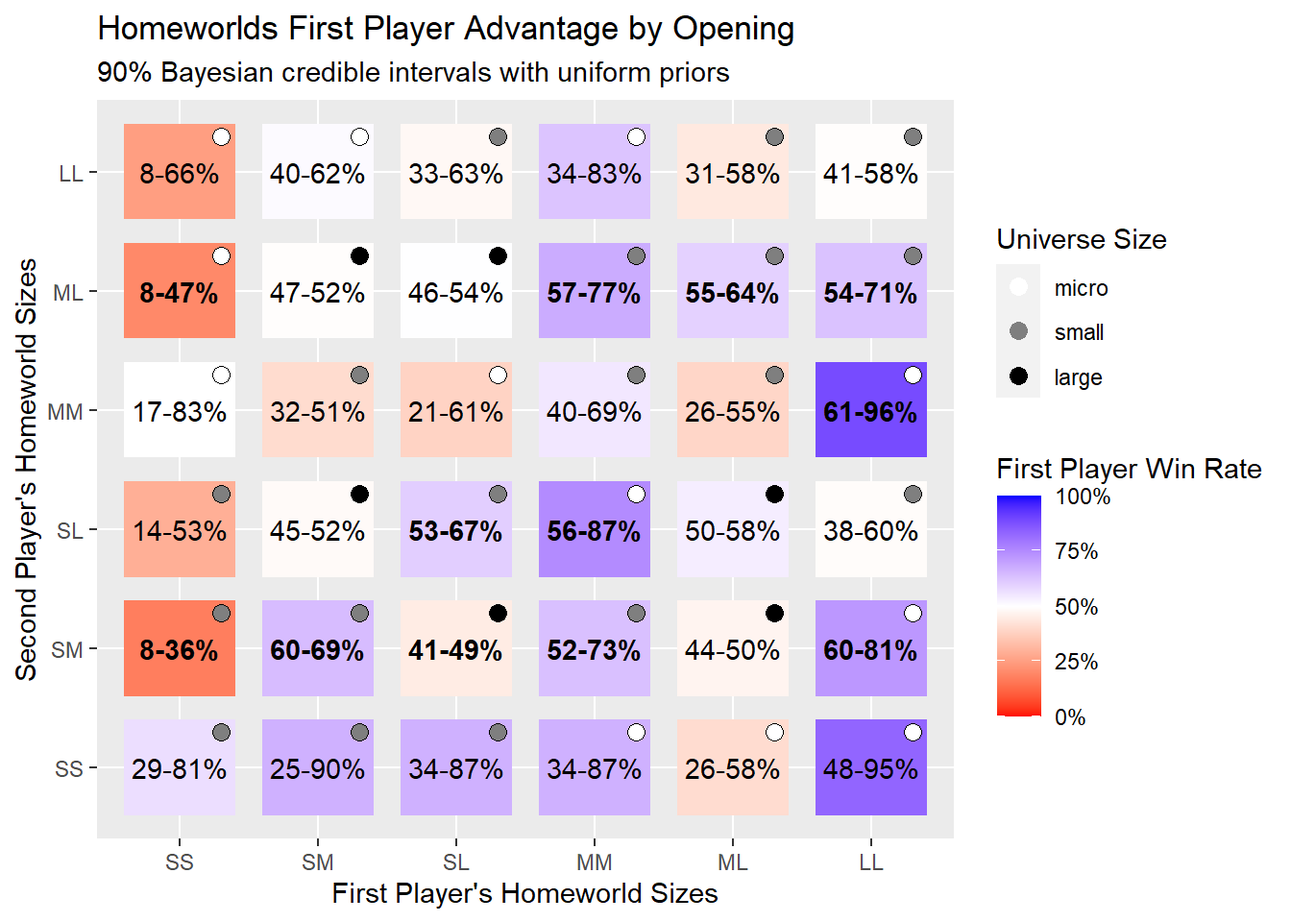
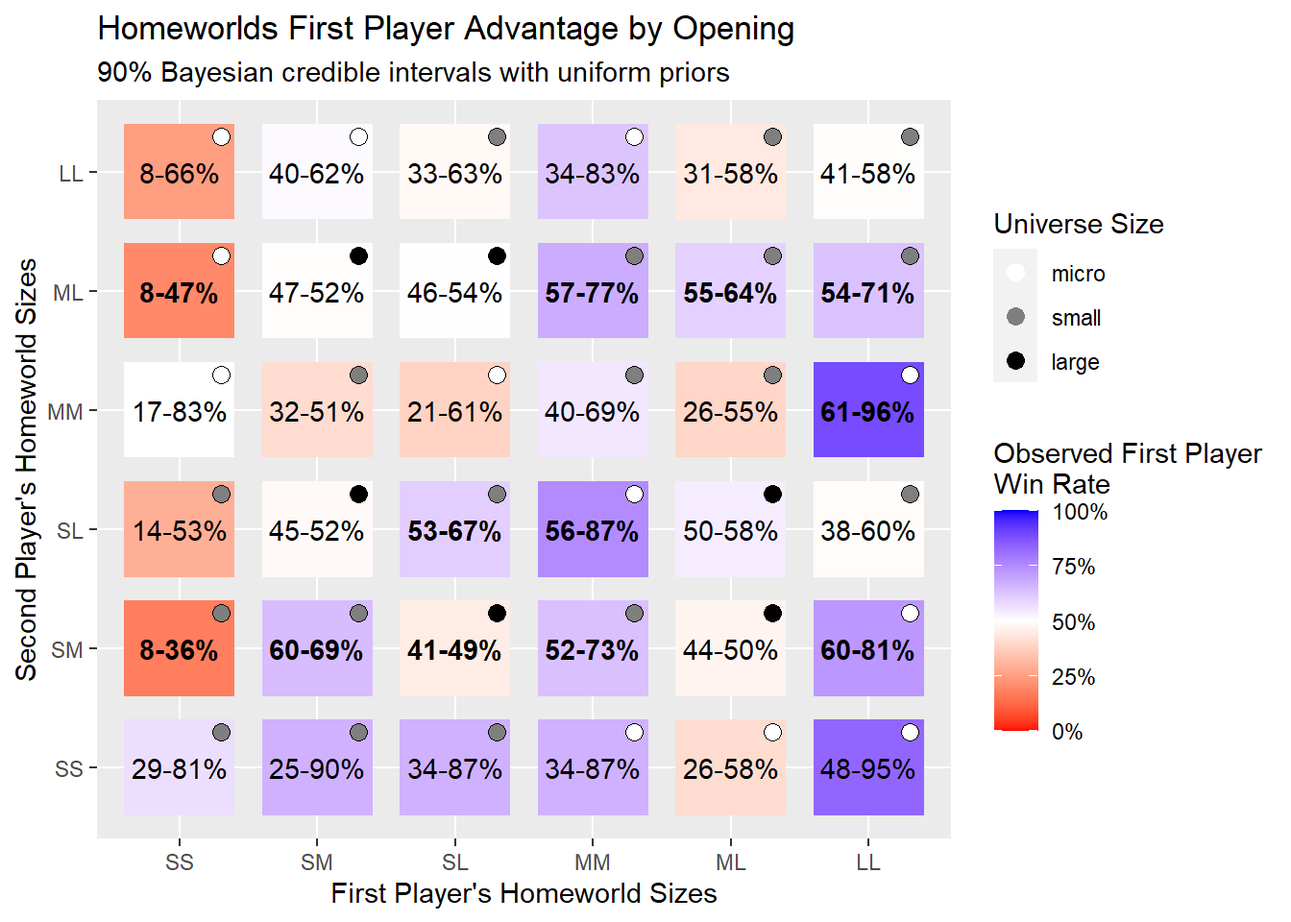
add second graphic to homeworlds openings, adjust prose slightly

diff --git a/posts/homeworlds_openings/homeworlds_openings.html b/posts/homeworlds_openings/homeworlds_openings.html
@@ -206,14 +206,14 @@ code span.wa { color: #60a0b0; font-weight: bold; font-style: italic; } /* Warni
 <p>At the beginning of the game, each player chooses two stars to be their homeworld. Star systems are connected if they have no sizes in common.</p>
 <div class="quarto-figure quarto-figure-center">
 <figure class="figure">
-<p><a href="home5.jpg" class="lightbox" title="Homeworlds star connection rule (from Looney Labs)" data-gallery="quarto-lightbox-gallery-1"><img src="home5.jpg" class="img-fluid figure-img"></a></p>
+<p><a href="home5.jpg" class="lightbox" data-gallery="quarto-lightbox-gallery-1" title="Homeworlds star connection rule (from Looney Labs)"><img src="home5.jpg" class="img-fluid figure-img"></a></p>
 <p></p><figcaption class="figure-caption">Homeworlds star connection rule (from Looney Labs)</figcaption><p></p>
 </figure>
 </div>
 <p>Expert players actively debate Homeworlds’ opening theory. One question is which combination of star sizes should be selected by the first player, and how the second player should respond.</p>
 <div class="quarto-figure quarto-figure-center">
 <figure class="figure">
-<p><a href="home6.jpg" class="lightbox" title="Some homeworld options (from Looney Labs)" data-gallery="quarto-lightbox-gallery-2"><img src="home6.jpg" class="img-fluid figure-img"></a></p>
+<p><a href="home6.jpg" class="lightbox" data-gallery="quarto-lightbox-gallery-2" title="Some homeworld options (from Looney Labs)"><img src="home6.jpg" class="img-fluid figure-img"></a></p>
 <p></p><figcaption class="figure-caption">Some homeworld options (from Looney Labs)</figcaption><p></p>
 </figure>
 </div>
@@ -265,8 +265,10 @@ code span.wa { color: #60a0b0; font-weight: bold; font-style: italic; } /* Warni
 </section>
 <section id="modelling-first-player-advantage" class="level2">
 <h2 class="anchored" data-anchor-id="modelling-first-player-advantage">Modelling First Player Advantage</h2>
-<p>We can model first player advantage by associating a parameter ranging from zero to one with each combination of homeworld sizes representing the proportion of games we should expect the first player to win.<a href="#fn1" class="footnote-ref" id="fnref1" role="doc-noteref"><sup>1</sup></a> If this parameter is distributed according to a beta distribution <em>Beta(a, b)</em>, then its posterior distribution accounting for observing <em>n</em> wins and <em>m</em> losses for the first player is <em>Beta(a + n, b + m)</em>.<a href="#fn2" class="footnote-ref" id="fnref2" role="doc-noteref"><sup>2</sup></a> All that is left is to decide on a prior distribution representing our beliefs before observing any data. This is an interesting subtlety<a href="#fn3" class="footnote-ref" id="fnref3" role="doc-noteref"><sup>3</sup></a>, but it seems reasonable to choose a uniform prior, <em>Beta(1, 1)</em>, under which all possibilities are equally credible.</p>
+<p>We can model first player advantage by imagining that a game of Homeworlds is like a biased coin flip, where each opening is associated with an independent bias. For example, if the bias parameter for some opening is 0.6, then we expect the first player to win 60% of the time that opening is played.<a href="#fn1" class="footnote-ref" id="fnref1" role="doc-noteref"><sup>1</sup></a></p>
+<p>If this parameter is distributed according to a beta distribution <em>Beta(a, b)</em>, then its posterior distribution accounting for observing <em>n</em> wins and <em>m</em> losses for the first player is <em>Beta(a + n, b + m)</em>.<a href="#fn2" class="footnote-ref" id="fnref2" role="doc-noteref"><sup>2</sup></a> All that is left is to decide on a prior distribution representing our beliefs before observing any data. This is an interesting subtlety<a href="#fn3" class="footnote-ref" id="fnref3" role="doc-noteref"><sup>3</sup></a>, but it seems reasonable to choose a uniform prior, <em>Beta(1, 1)</em>, under which all possibilities are equally credible.</p>
 <p>From the posterior distribution, we can construct a 90% <a href="https://en.wikipedia.org/wiki/Credible_interval">credible interval</a> using <code>qbeta</code>. Unlike the confidence intervals used in frequentist statistical inference, which are the source of much confusion, Bayesian credible intervals have a straightforward interpretation: we’re 90% sure the true value of the parameter is contained in a 90% credible interval.<a href="#fn4" class="footnote-ref" id="fnref4" role="doc-noteref"><sup>4</sup></a></p>
+<p>We can also calculate the probability that the first player is favoured (i.e.&nbsp;is expected to win at least half the time) in each opening using <code>pbeta</code>. In this case we don’t consider the extent of the advantage, just whether there is one.</p>
 <div class="cell">
 <details>
 <summary>Code</summary>
@@ -288,13 +290,19 @@ code span.wa { color: #60a0b0; font-weight: bold; font-style: italic; } /* Warni
 <span id="cb4-16"><a href="#cb4-16" aria-hidden="true" tabindex="-1"></a>         <span class="at">ci_fontface =</span> <span class="fu">case_when</span>(<span class="sc">!</span><span class="fu">between</span>(<span class="fl">0.5</span>, ci_lower, ci_upper) <span class="sc">~</span> <span class="st">"bold"</span>,</span>
 <span id="cb4-17"><a href="#cb4-17" aria-hidden="true" tabindex="-1"></a>                                 T <span class="sc">~</span> <span class="st">"plain"</span>),</span>
 <span id="cb4-18"><a href="#cb4-18" aria-hidden="true" tabindex="-1"></a>         <span class="at">universe_size =</span> <span class="fu">universe_size</span>(p1_hw, p2_hw),</span>
-<span id="cb4-19"><a href="#cb4-19" aria-hidden="true" tabindex="-1"></a>         <span class="at">universe_size =</span> <span class="fu">factor</span>(universe_size, <span class="at">ordered =</span> T, <span class="at">levels =</span> universe_sizes)) <span class="ot">-&gt;</span></span>
-<span id="cb4-20"><a href="#cb4-20" aria-hidden="true" tabindex="-1"></a>  homeworlds_openings</span>
-<span id="cb4-21"><a href="#cb4-21" aria-hidden="true" tabindex="-1"></a></span>
-<span id="cb4-22"><a href="#cb4-22" aria-hidden="true" tabindex="-1"></a>homeworlds_openings</span></code><button title="Copy to Clipboard" class="code-copy-button"><i class="bi"></i></button></pre></div>
+<span id="cb4-19"><a href="#cb4-19" aria-hidden="true" tabindex="-1"></a>         <span class="at">universe_size =</span> <span class="fu">factor</span>(universe_size, <span class="at">ordered =</span> T, <span class="at">levels =</span> universe_sizes),</span>
+<span id="cb4-20"><a href="#cb4-20" aria-hidden="true" tabindex="-1"></a>         <span class="at">prob_fav =</span> <span class="dv">1</span> <span class="sc">-</span> <span class="fu">pbeta</span>(<span class="fl">0.5</span>, <span class="dv">1</span> <span class="sc">+</span> p1_wins, <span class="dv">1</span> <span class="sc">+</span> p2_wins),</span>
+<span id="cb4-21"><a href="#cb4-21" aria-hidden="true" tabindex="-1"></a>         <span class="at">formatted_prob_fav =</span> <span class="fu">case_when</span>(</span>
+<span id="cb4-22"><a href="#cb4-22" aria-hidden="true" tabindex="-1"></a>           prob_fav <span class="sc">&lt;</span> <span class="fl">0.005</span> <span class="sc">~</span> <span class="st">"&lt;1%"</span>,</span>
+<span id="cb4-23"><a href="#cb4-23" aria-hidden="true" tabindex="-1"></a>           prob_fav <span class="sc">&lt;</span> <span class="fl">0.995</span> <span class="sc">~</span> <span class="fu">paste0</span>(<span class="fu">round</span>(<span class="dv">100</span> <span class="sc">*</span> prob_fav), <span class="st">"%"</span>),</span>
+<span id="cb4-24"><a href="#cb4-24" aria-hidden="true" tabindex="-1"></a>           T <span class="sc">~</span> <span class="st">"&gt;99%"</span>),</span>
+<span id="cb4-25"><a href="#cb4-25" aria-hidden="true" tabindex="-1"></a>         <span class="at">prob_fav_fontface =</span> <span class="fu">case_when</span>(<span class="fu">abs</span>(prob_fav <span class="sc">-</span> <span class="fl">0.5</span>) <span class="sc">&gt;</span> <span class="fl">0.45</span> <span class="sc">~</span> <span class="st">"bold"</span>, T <span class="sc">~</span> <span class="st">"plain"</span>)) <span class="ot">-&gt;</span></span>
+<span id="cb4-26"><a href="#cb4-26" aria-hidden="true" tabindex="-1"></a>  homeworlds_openings</span>
+<span id="cb4-27"><a href="#cb4-27" aria-hidden="true" tabindex="-1"></a></span>
+<span id="cb4-28"><a href="#cb4-28" aria-hidden="true" tabindex="-1"></a>homeworlds_openings</span></code><button title="Copy to Clipboard" class="code-copy-button"><i class="bi"></i></button></pre></div>
 </details>
 <div class="cell-output cell-output-stdout">
-<pre><code># A tibble: 36 × 11
+<pre><code># A tibble: 36 × 14
 # Rowwise: 
    p1_wr     n p1_hw p2_hw p1_wins p2_wins ci_lower ci_upper formatted_ci
    &lt;dbl&gt; &lt;dbl&gt; &lt;ord&gt; &lt;ord&gt;   &lt;dbl&gt;   &lt;dbl&gt;    &lt;dbl&gt;    &lt;dbl&gt; &lt;chr&gt;       
@@ -309,12 +317,17 @@ code span.wa { color: #60a0b0; font-weight: bold; font-style: italic; } /* Warni
  9 0.441    34 ML    LL      15.0    19.0    0.311     0.581 31-58%      
 10 0.449   476 SL    SM     214.    262.     0.412     0.487 41-49%      
 # ℹ 26 more rows
-# ℹ 2 more variables: ci_fontface &lt;chr&gt;, universe_size &lt;ord&gt;</code></pre>
+# ℹ 5 more variables: ci_fontface &lt;chr&gt;, universe_size &lt;ord&gt;, prob_fav &lt;dbl&gt;,
+#   formatted_prob_fav &lt;chr&gt;, prob_fav_fontface &lt;chr&gt;</code></pre>
 </div>
 </div>
 </section>
 <section id="visualizing-first-player-advantage" class="level2">
 <h2 class="anchored" data-anchor-id="visualizing-first-player-advantage">Visualizing First Player Advantage</h2>
+<div class="panel-tabset">
+<ul class="nav nav-tabs" role="tablist"><li class="nav-item" role="presentation"><a class="nav-link active" id="tabset-1-1-tab" data-bs-toggle="tab" data-bs-target="#tabset-1-1" role="tab" aria-controls="tabset-1-1" aria-selected="true">Credible Intervals</a></li><li class="nav-item" role="presentation"><a class="nav-link" id="tabset-1-2-tab" data-bs-toggle="tab" data-bs-target="#tabset-1-2" role="tab" aria-controls="tabset-1-2" aria-selected="false">Posterior Probability of First Player Advantage</a></li></ul>
+<div class="tab-content">
+<div id="tabset-1-1" class="tab-pane active" role="tabpanel" aria-labelledby="tabset-1-1-tab">
 <div class="cell">
 <details>
 <summary>Code</summary>
@@ -322,44 +335,70 @@ code span.wa { color: #60a0b0; font-weight: bold; font-style: italic; } /* Warni
 <span id="cb6-2"><a href="#cb6-2" aria-hidden="true" tabindex="-1"></a>  <span class="fu">ggplot</span>(<span class="fu">aes</span>(<span class="at">x =</span> p1_hw, <span class="at">y =</span> p2_hw, <span class="at">fill =</span> p1_wr)) <span class="sc">+</span></span>
 <span id="cb6-3"><a href="#cb6-3" aria-hidden="true" tabindex="-1"></a>  <span class="co"># add tiles coloured to indicate the observed first player win rate</span></span>
 <span id="cb6-4"><a href="#cb6-4" aria-hidden="true" tabindex="-1"></a>  <span class="fu">geom_tile</span>(<span class="at">width =</span> <span class="fl">0.8</span>, <span class="at">height =</span> <span class="fl">0.8</span>) <span class="sc">+</span></span>
-<span id="cb6-5"><a href="#cb6-5" aria-hidden="true" tabindex="-1"></a>  <span class="co"># add 90% credible intervals as text</span></span>
-<span id="cb6-6"><a href="#cb6-6" aria-hidden="true" tabindex="-1"></a>  <span class="fu">geom_text</span>(<span class="fu">aes</span>(<span class="at">label =</span> formatted_ci, <span class="at">fontface =</span> ci_fontface)) <span class="sc">+</span></span>
-<span id="cb6-7"><a href="#cb6-7" aria-hidden="true" tabindex="-1"></a>  <span class="co"># add dots to indicate universe size</span></span>
-<span id="cb6-8"><a href="#cb6-8" aria-hidden="true" tabindex="-1"></a>  <span class="fu">geom_point</span>(<span class="fu">aes</span>(<span class="at">colour =</span> universe_size), </span>
-<span id="cb6-9"><a href="#cb6-9" aria-hidden="true" tabindex="-1"></a>             <span class="at">position =</span> <span class="fu">position_nudge</span>(<span class="at">x =</span> <span class="fl">0.3</span>, <span class="at">y =</span> <span class="fl">0.3</span>), </span>
-<span id="cb6-10"><a href="#cb6-10" aria-hidden="true" tabindex="-1"></a>             <span class="at">size =</span> <span class="dv">3</span>) <span class="sc">+</span></span>
-<span id="cb6-11"><a href="#cb6-11" aria-hidden="true" tabindex="-1"></a>  <span class="co"># trick to circle the universe size dots without a fill scale collision</span></span>
-<span id="cb6-12"><a href="#cb6-12" aria-hidden="true" tabindex="-1"></a>  <span class="fu">geom_point</span>(<span class="at">size =</span> <span class="dv">3</span>, </span>
-<span id="cb6-13"><a href="#cb6-13" aria-hidden="true" tabindex="-1"></a>             <span class="at">shape =</span> <span class="dv">21</span>, </span>
-<span id="cb6-14"><a href="#cb6-14" aria-hidden="true" tabindex="-1"></a>             <span class="at">fill =</span> <span class="cn">NA</span>, </span>
-<span id="cb6-15"><a href="#cb6-15" aria-hidden="true" tabindex="-1"></a>             <span class="at">colour =</span> <span class="st">"black"</span>, </span>
-<span id="cb6-16"><a href="#cb6-16" aria-hidden="true" tabindex="-1"></a>             <span class="at">position =</span> <span class="fu">position_nudge</span>(<span class="at">x =</span> <span class="fl">0.3</span>, <span class="at">y =</span> <span class="fl">0.3</span>)) <span class="sc">+</span></span>
-<span id="cb6-17"><a href="#cb6-17" aria-hidden="true" tabindex="-1"></a>  <span class="co"># add labels</span></span>
-<span id="cb6-18"><a href="#cb6-18" aria-hidden="true" tabindex="-1"></a>  <span class="fu">labs</span>(<span class="at">title =</span> <span class="st">"Homeworlds First Player Advantage by Opening"</span>,</span>
-<span id="cb6-19"><a href="#cb6-19" aria-hidden="true" tabindex="-1"></a>       <span class="at">subtitle =</span> <span class="st">"90% Bayesian credible intervals with uniform priors"</span>,</span>
-<span id="cb6-20"><a href="#cb6-20" aria-hidden="true" tabindex="-1"></a>       <span class="at">x =</span> <span class="st">"First Player's Homeworld Sizes"</span>,</span>
-<span id="cb6-21"><a href="#cb6-21" aria-hidden="true" tabindex="-1"></a>       <span class="at">y =</span> <span class="st">"Second Player's Homeworld Sizes"</span>,</span>
-<span id="cb6-22"><a href="#cb6-22" aria-hidden="true" tabindex="-1"></a>       <span class="at">fill =</span> <span class="st">"First Player Win Rate"</span>,</span>
-<span id="cb6-23"><a href="#cb6-23" aria-hidden="true" tabindex="-1"></a>       <span class="at">colour =</span> <span class="st">"Universe Size"</span>) <span class="sc">+</span></span>
-<span id="cb6-24"><a href="#cb6-24" aria-hidden="true" tabindex="-1"></a>  <span class="co"># gradient scale for the tiles</span></span>
-<span id="cb6-25"><a href="#cb6-25" aria-hidden="true" tabindex="-1"></a>  <span class="fu">scale_fill_gradient2</span>(<span class="at">low =</span> <span class="st">"red"</span>, </span>
-<span id="cb6-26"><a href="#cb6-26" aria-hidden="true" tabindex="-1"></a>                       <span class="at">mid =</span> <span class="st">"white"</span>, </span>
-<span id="cb6-27"><a href="#cb6-27" aria-hidden="true" tabindex="-1"></a>                       <span class="at">high =</span> <span class="st">"blue"</span>, </span>
-<span id="cb6-28"><a href="#cb6-28" aria-hidden="true" tabindex="-1"></a>                       <span class="at">midpoint =</span> <span class="fl">0.5</span>,</span>
-<span id="cb6-29"><a href="#cb6-29" aria-hidden="true" tabindex="-1"></a>                       <span class="at">labels =</span> scales<span class="sc">::</span>percent,</span>
-<span id="cb6-30"><a href="#cb6-30" aria-hidden="true" tabindex="-1"></a>                       <span class="at">limits =</span> <span class="fu">c</span>(<span class="dv">0</span>, <span class="dv">1</span>)) <span class="sc">+</span></span>
-<span id="cb6-31"><a href="#cb6-31" aria-hidden="true" tabindex="-1"></a>  <span class="co"># discrete scale for the universe size dots</span></span>
-<span id="cb6-32"><a href="#cb6-32" aria-hidden="true" tabindex="-1"></a>  <span class="fu">scale_colour_manual</span>(<span class="at">values =</span> <span class="fu">c</span>(<span class="at">micro =</span> <span class="st">"white"</span>, </span>
-<span id="cb6-33"><a href="#cb6-33" aria-hidden="true" tabindex="-1"></a>                                 <span class="at">small =</span> <span class="st">"grey50"</span>, </span>
-<span id="cb6-34"><a href="#cb6-34" aria-hidden="true" tabindex="-1"></a>                                 <span class="at">large =</span> <span class="st">"black"</span>)) <span class="sc">+</span> </span>
-<span id="cb6-35"><a href="#cb6-35" aria-hidden="true" tabindex="-1"></a>  <span class="co"># put the win rate legend under the universe size legend</span></span>
-<span id="cb6-36"><a href="#cb6-36" aria-hidden="true" tabindex="-1"></a>  <span class="fu">guides</span>(<span class="at">colour =</span> <span class="fu">guide_legend</span>(<span class="at">order =</span> <span class="dv">1</span>))</span></code><button title="Copy to Clipboard" class="code-copy-button"><i class="bi"></i></button></pre></div>
+<span id="cb6-5"><a href="#cb6-5" aria-hidden="true" tabindex="-1"></a>  <span class="co"># add dots to indicate universe size</span></span>
+<span id="cb6-6"><a href="#cb6-6" aria-hidden="true" tabindex="-1"></a>  <span class="fu">geom_point</span>(<span class="fu">aes</span>(<span class="at">colour =</span> universe_size), </span>
+<span id="cb6-7"><a href="#cb6-7" aria-hidden="true" tabindex="-1"></a>             <span class="at">position =</span> <span class="fu">position_nudge</span>(<span class="at">x =</span> <span class="fl">0.3</span>, <span class="at">y =</span> <span class="fl">0.3</span>), </span>
+<span id="cb6-8"><a href="#cb6-8" aria-hidden="true" tabindex="-1"></a>             <span class="at">size =</span> <span class="dv">3</span>) <span class="sc">+</span></span>
+<span id="cb6-9"><a href="#cb6-9" aria-hidden="true" tabindex="-1"></a>  <span class="co"># trick to circle the universe size dots without a fill scale collision</span></span>
+<span id="cb6-10"><a href="#cb6-10" aria-hidden="true" tabindex="-1"></a>  <span class="fu">geom_point</span>(<span class="at">size =</span> <span class="dv">3</span>, </span>
+<span id="cb6-11"><a href="#cb6-11" aria-hidden="true" tabindex="-1"></a>             <span class="at">shape =</span> <span class="dv">21</span>, </span>
+<span id="cb6-12"><a href="#cb6-12" aria-hidden="true" tabindex="-1"></a>             <span class="at">fill =</span> <span class="cn">NA</span>, </span>
+<span id="cb6-13"><a href="#cb6-13" aria-hidden="true" tabindex="-1"></a>             <span class="at">colour =</span> <span class="st">"black"</span>, </span>
+<span id="cb6-14"><a href="#cb6-14" aria-hidden="true" tabindex="-1"></a>             <span class="at">position =</span> <span class="fu">position_nudge</span>(<span class="at">x =</span> <span class="fl">0.3</span>, <span class="at">y =</span> <span class="fl">0.3</span>)) <span class="sc">+</span></span>
+<span id="cb6-15"><a href="#cb6-15" aria-hidden="true" tabindex="-1"></a>  <span class="co"># add labels</span></span>
+<span id="cb6-16"><a href="#cb6-16" aria-hidden="true" tabindex="-1"></a>  <span class="fu">labs</span>(<span class="at">title =</span> <span class="st">"Homeworlds First Player Advantage by Opening"</span>,</span>
+<span id="cb6-17"><a href="#cb6-17" aria-hidden="true" tabindex="-1"></a>       <span class="at">x =</span> <span class="st">"First Player's Homeworld Sizes"</span>,</span>
+<span id="cb6-18"><a href="#cb6-18" aria-hidden="true" tabindex="-1"></a>       <span class="at">y =</span> <span class="st">"Second Player's Homeworld Sizes"</span>,</span>
+<span id="cb6-19"><a href="#cb6-19" aria-hidden="true" tabindex="-1"></a>       <span class="at">fill =</span> <span class="st">"Observed First Player</span><span class="sc">\n</span><span class="st">Win Rate"</span>,</span>
+<span id="cb6-20"><a href="#cb6-20" aria-hidden="true" tabindex="-1"></a>       <span class="at">colour =</span> <span class="st">"Universe Size"</span>) <span class="sc">+</span></span>
+<span id="cb6-21"><a href="#cb6-21" aria-hidden="true" tabindex="-1"></a>  <span class="co"># gradient scale for the tiles</span></span>
+<span id="cb6-22"><a href="#cb6-22" aria-hidden="true" tabindex="-1"></a>  <span class="fu">scale_fill_gradient2</span>(<span class="at">low =</span> <span class="st">"red"</span>, </span>
+<span id="cb6-23"><a href="#cb6-23" aria-hidden="true" tabindex="-1"></a>                       <span class="at">mid =</span> <span class="st">"white"</span>, </span>
+<span id="cb6-24"><a href="#cb6-24" aria-hidden="true" tabindex="-1"></a>                       <span class="at">high =</span> <span class="st">"blue"</span>, </span>
+<span id="cb6-25"><a href="#cb6-25" aria-hidden="true" tabindex="-1"></a>                       <span class="at">midpoint =</span> <span class="fl">0.5</span>,</span>
+<span id="cb6-26"><a href="#cb6-26" aria-hidden="true" tabindex="-1"></a>                       <span class="at">labels =</span> scales<span class="sc">::</span>percent,</span>
+<span id="cb6-27"><a href="#cb6-27" aria-hidden="true" tabindex="-1"></a>                       <span class="at">limits =</span> <span class="fu">c</span>(<span class="dv">0</span>, <span class="dv">1</span>)) <span class="sc">+</span></span>
+<span id="cb6-28"><a href="#cb6-28" aria-hidden="true" tabindex="-1"></a>  <span class="co"># discrete scale for the universe size dots</span></span>
+<span id="cb6-29"><a href="#cb6-29" aria-hidden="true" tabindex="-1"></a>  <span class="fu">scale_colour_manual</span>(<span class="at">values =</span> <span class="fu">c</span>(<span class="at">micro =</span> <span class="st">"white"</span>, </span>
+<span id="cb6-30"><a href="#cb6-30" aria-hidden="true" tabindex="-1"></a>                                 <span class="at">small =</span> <span class="st">"grey50"</span>, </span>
+<span id="cb6-31"><a href="#cb6-31" aria-hidden="true" tabindex="-1"></a>                                 <span class="at">large =</span> <span class="st">"black"</span>)) <span class="sc">+</span> </span>
+<span id="cb6-32"><a href="#cb6-32" aria-hidden="true" tabindex="-1"></a>  <span class="co"># put the win rate legend under the universe size legend</span></span>
+<span id="cb6-33"><a href="#cb6-33" aria-hidden="true" tabindex="-1"></a>  <span class="fu">guides</span>(<span class="at">colour =</span> <span class="fu">guide_legend</span>(<span class="at">order =</span> <span class="dv">1</span>)) <span class="ot">-&gt;</span></span>
+<span id="cb6-34"><a href="#cb6-34" aria-hidden="true" tabindex="-1"></a>  plot</span>
+<span id="cb6-35"><a href="#cb6-35" aria-hidden="true" tabindex="-1"></a></span>
+<span id="cb6-36"><a href="#cb6-36" aria-hidden="true" tabindex="-1"></a>plot <span class="sc">+</span></span>
+<span id="cb6-37"><a href="#cb6-37" aria-hidden="true" tabindex="-1"></a>  <span class="co"># add formatted credible intervals as text</span></span>
+<span id="cb6-38"><a href="#cb6-38" aria-hidden="true" tabindex="-1"></a>  <span class="fu">geom_text</span>(<span class="fu">aes</span>(<span class="at">label =</span> formatted_ci, <span class="at">fontface =</span> ci_fontface)) <span class="sc">+</span></span>
+<span id="cb6-39"><a href="#cb6-39" aria-hidden="true" tabindex="-1"></a>  <span class="co"># add subtitle</span></span>
+<span id="cb6-40"><a href="#cb6-40" aria-hidden="true" tabindex="-1"></a>  <span class="fu">labs</span>(<span class="at">subtitle =</span> <span class="st">"90% Bayesian credible intervals with uniform priors"</span>)</span></code><button title="Copy to Clipboard" class="code-copy-button"><i class="bi"></i></button></pre></div>
 </details>
 <div class="cell-output-display">
 <div class="quarto-figure quarto-figure-center">
 <figure class="figure">
 <p><a href="homeworlds_openings_files/figure-html/graphic-1.png" class="lightbox" data-gallery="quarto-lightbox-gallery-3"><img src="homeworlds_openings_files/figure-html/graphic-1.png" class="img-fluid figure-img" width="672"></a></p>
 </figure>
+</div>
+</div>
+</div>
+</div>
+<div id="tabset-1-2" class="tab-pane" role="tabpanel" aria-labelledby="tabset-1-2-tab">
+<div class="cell">
+<details>
+<summary>Code</summary>
+<div class="sourceCode cell-code" id="cb7"><pre class="sourceCode r code-with-copy"><code class="sourceCode r"><span id="cb7-1"><a href="#cb7-1" aria-hidden="true" tabindex="-1"></a>plot <span class="sc">+</span> </span>
+<span id="cb7-2"><a href="#cb7-2" aria-hidden="true" tabindex="-1"></a>  <span class="co"># add posterior probability first player is favoured as text</span></span>
+<span id="cb7-3"><a href="#cb7-3" aria-hidden="true" tabindex="-1"></a>  <span class="fu">geom_text</span>(<span class="fu">aes</span>(<span class="at">label =</span> formatted_prob_fav, <span class="at">fontface =</span> prob_fav_fontface)) <span class="sc">+</span></span>
+<span id="cb7-4"><a href="#cb7-4" aria-hidden="true" tabindex="-1"></a>  <span class="co"># add subtitle</span></span>
+<span id="cb7-5"><a href="#cb7-5" aria-hidden="true" tabindex="-1"></a>  <span class="fu">labs</span>(<span class="at">subtitle =</span> <span class="st">"Posterior probability first player is favoured"</span>)</span></code><button title="Copy to Clipboard" class="code-copy-button"><i class="bi"></i></button></pre></div>
+</details>
+<div class="cell-output-display">
+<div class="quarto-figure quarto-figure-center">
+<figure class="figure">
+<p><a href="homeworlds_openings_files/figure-html/unnamed-chunk-1-1.png" class="lightbox" data-gallery="quarto-lightbox-gallery-4"><img src="homeworlds_openings_files/figure-html/unnamed-chunk-1-1.png" class="img-fluid figure-img" width="672"></a></p>
+</figure>
+</div>
+</div>
+</div>
 </div>
 </div>
 </div>
@@ -398,7 +437,7 @@ code span.wa { color: #60a0b0; font-weight: bold; font-style: italic; } /* Warni
 <div id="quarto-appendix" class="default"><section id="footnotes" class="footnotes footnotes-end-of-document" role="doc-endnotes"><h2 class="anchored quarto-appendix-heading">Footnotes</h2>
 
 <ol>
-<li id="fn1"><p>Assuming “average” play, anyway.<a href="#fnref1" class="footnote-back" role="doc-backlink">↩</a></p></li>
+<li id="fn1"><p>Assuming “average play”, anyway.<a href="#fnref1" class="footnote-back" role="doc-backlink">↩</a></p></li>
 <li id="fn2"><p>See <a href="https://cchecastaldo.github.io/BayesianShortCourse/content/handouts/DerivationBetaBinomialConjugate.pdf">these slides</a> for a quick proof of this fact.<a href="#fnref2" class="footnote-back" role="doc-backlink">↩</a></p></li>
 <li id="fn3"><p>See <a href="https://stats.stackexchange.com/a/298176/327338">this StackExchange answer</a> for more on uninformative Beta priors.<a href="#fnref3" class="footnote-back" role="doc-backlink">↩</a></p></li>
 <li id="fn4"><p>Frequentists view the bounds of a confidence interval as random, and the parameter value as fixed. Bayesians view the bounds of a credible interval as fixed, and the parameter value as random.<a href="#fnref4" class="footnote-back" role="doc-backlink">↩</a></p></li>
@@ -654,7 +693,7 @@ window.document.addEventListener("DOMContentLoaded", function (event) {
 });
 </script>
 </div> <!-- /content -->
-<script>var lightboxQuarto = GLightbox({"openEffect":"zoom","selector":".lightbox","closeEffect":"zoom","loop":true,"descPosition":"bottom"});</script>
+<script>var lightboxQuarto = GLightbox({"descPosition":"bottom","closeEffect":"zoom","openEffect":"zoom","loop":true,"selector":".lightbox"});</script>
 
 
 

diff --git a/posts.html b/posts.html
@@ -144,7 +144,7 @@ ul.task-list li input[type="checkbox"] {
 
 <div class="quarto-listing quarto-listing-container-default" id="listing-listing">
 <div class="list quarto-listing-default">
-<div class="quarto-post image-right" data-index="0" data-listing-date-sort="1683086400000" data-listing-file-modified-sort="1683163423059" data-listing-reading-time-sort="8.63">
+<div class="quarto-post image-right" data-index="0" data-listing-date-sort="1683086400000" data-listing-file-modified-sort="1683234302009" data-listing-reading-time-sort="9.65">
 <div class="thumbnail">
 <p><a href="./posts/homeworlds_openings/homeworlds_openings.html"> <img src="./posts/homeworlds_openings/home3.jpg" class="thumnail-image"> </a></p>
 </div>
@@ -219,7 +219,7 @@ Feb 4, 2023
 </a>
 </div>
 </div>
-<div class="quarto-post image-right" data-index="3" data-listing-date-sort="1672635600000" data-listing-file-modified-sort="1681567603353" data-listing-reading-time-sort="1.705">
+<div class="quarto-post image-right" data-index="3" data-listing-date-sort="1672635600000" data-listing-file-modified-sort="1683232634653" data-listing-reading-time-sort="1.705">
 <div class="thumbnail">
 <p><a href="./posts/crossword_times/crossword_times.html"> <img src="./posts/crossword_times/crossword_times.jpg" class="thumnail-image"> </a></p>
 </div>
